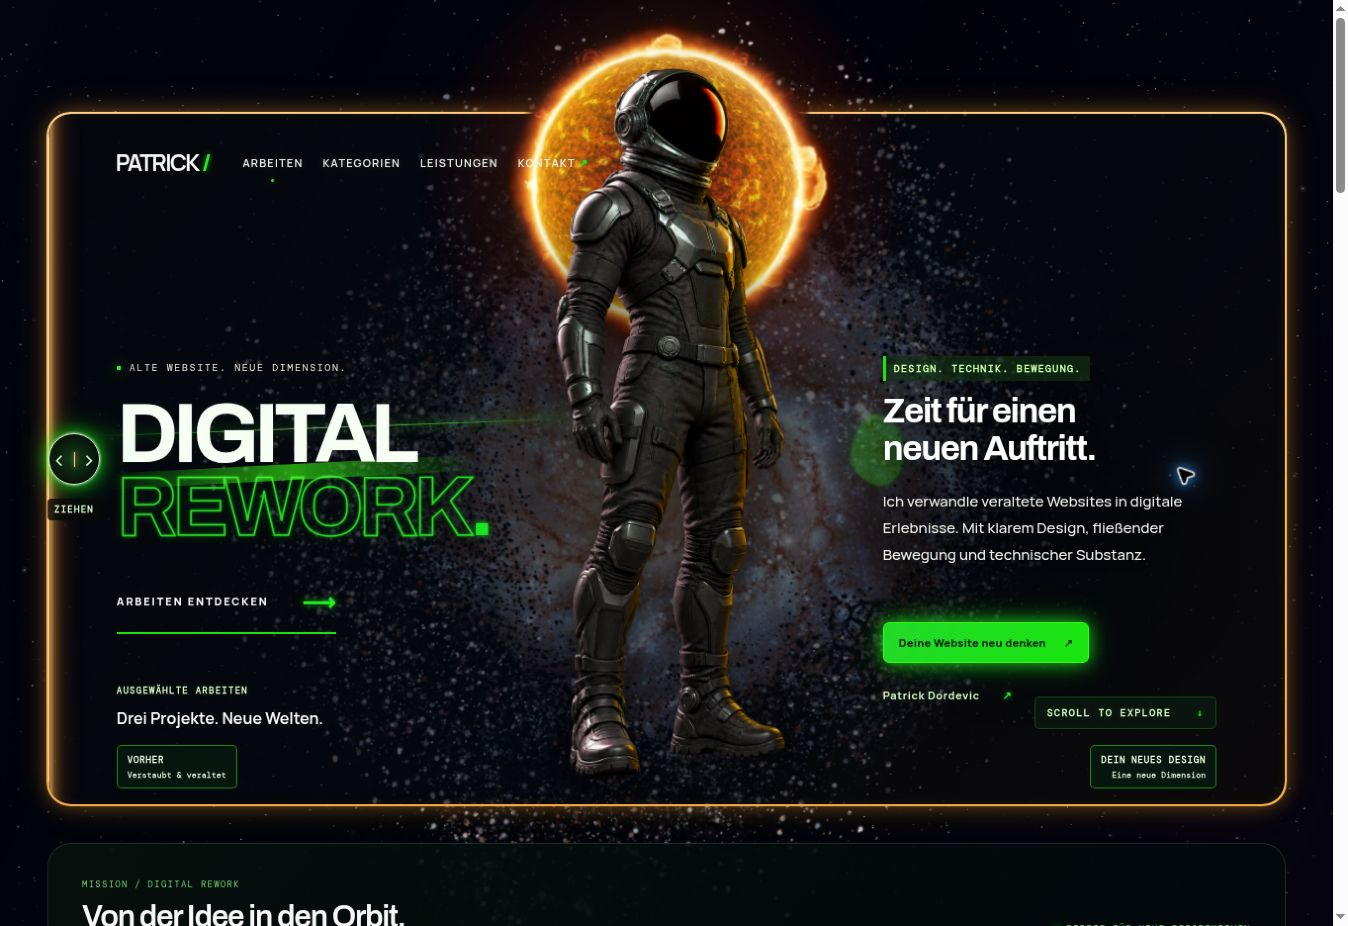
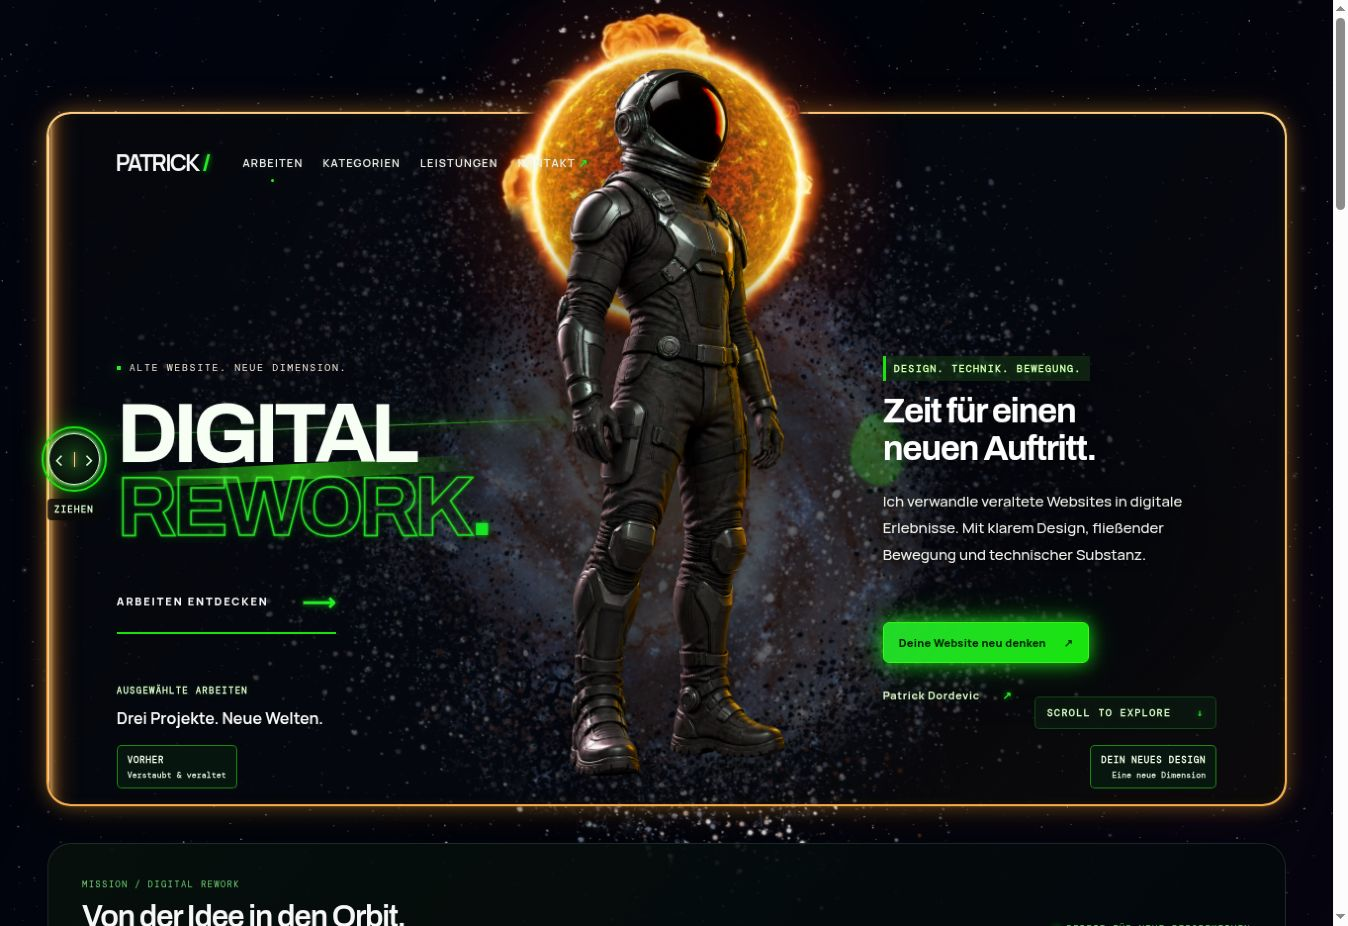
Verify calmer solar loop in preview

diff --git a/PROJECT_NOTES.md b/PROJECT_NOTES.md
@@ -242,3 +242,7 @@ Desktop und mobile Datei: 36.000 s, 60 fps. Spiegelbildliche Framepaare
 bei 6/29.983 und 12/23.983 s nach dem Decodieren verglichen: mittlere
 Codecabweichung unter 2 von 255 pro Kanal. Transparenz bleibt erhalten.
 Ressourcenprüfung und git diff --check erfolgreich.
+Chromium-Vorschau lädt die neue Fassung: duration=36, readyState=4,
+spielt im sichtbaren Header; Aufbau und Beginn des Rückzugs visuell geprüft.
+Vorschaubild aktualisiert. Die vorherige Responsive-Prüfung gilt weiter,
+da ausschließlich die Filmdateien und deren Offline-Zeitkurve geändert wurden.
